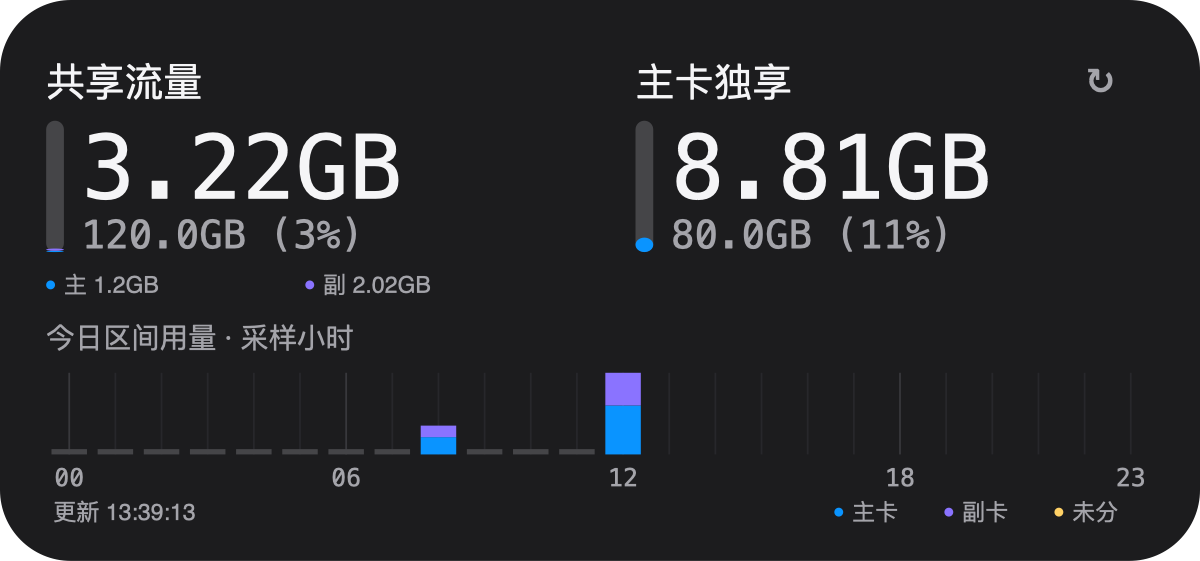
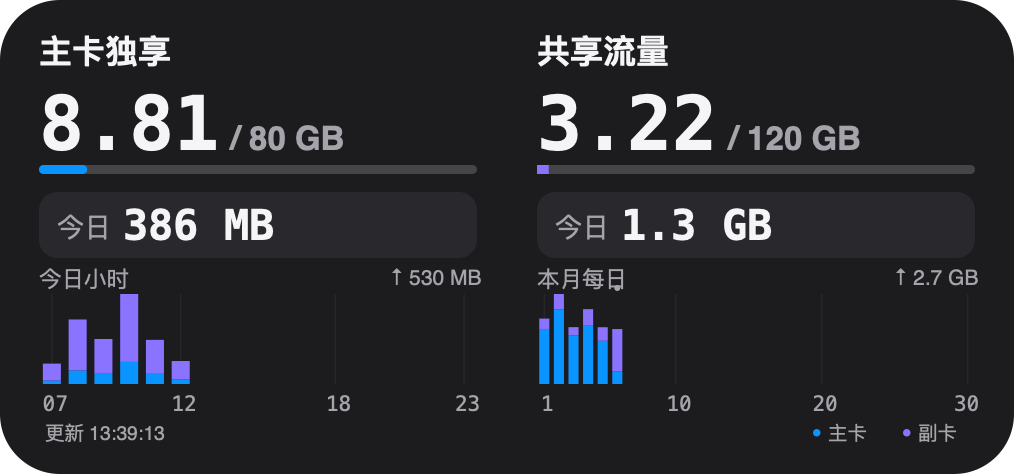
Improve Unicom medium widget with combined usage and compact charts

diff --git a/scriptable/UnicomFlow.js b/scriptable/UnicomFlow.js
@@ -7,11 +7,11 @@
 2. 联通官方 App 首页 → 流量，收到 Cookie 写入成功通知。
 3. 将 DmYY.js 放入同一 Scriptable 脚本目录，再新建脚本粘贴本文件。
 4. 运行后在 DmYY 菜单中预览、配置和刷新数据，再添加桌面组件。
-5. 小组件 Parameter 留空或 month 显示本月，填 today 显示今日已记录用量。
+5. Parameter 留空或 month：小号本月、中号本月+今日双图；today 显示今日已记录用量。
 直接读取 http://boxjs.net/query/data/@YaYa_10010.cookie。
 Cookie 只在请求时读取，不写入文件、不打印日志；文件只保存流量快照。
 支持黑色/白色主题。可识别共享与非共享通用套餐时分开显示，否则显示通用/定向。
-大数字为已用，下方为总量及已用百分比。明细未返回时显示 --。
+本月中号大数字为月已用，同排显示总量，下方显示今日；其余视图沿用原布局。明细未返回时显示 —。
 中号图为两次查询之间的用量增量，记在本次采样小时，不是运营商小时账单。
 iOS 决定实际刷新时刻；首次运行无历史，跨月、套餐变化或计数回退时重建基线。
 接口字段参考：联通套餐查询接口及 ChinaTelecomOperators/ChinaUnicom 公开实现；
@@ -40,7 +40,7 @@ const UF = {
   folder: 'UnicomFlow',
   usageFont: 'SF Mono Medium', totalFont: '系统 Medium',
   usageFontSize: 25, totalFontSize: 11, titleFontSize: null,
-  bg: '1C1C1E', text: 'F5F5F7', muted: 'A4A4AA', track: '454548',
+  bg: '1C1C1E', text: 'F5F5F7', muted: 'A4A4AA', track: '454548', todayBg: '28282D',
   blue: '0A94FF', purple: '8A73FF', warning: 'FFD166', gridMajor: '38383C', gridMinor: '27272B',
 };
 const UF_DEFAULTS = { ...UF };
@@ -72,8 +72,8 @@ function normalizedTitleSize(value) {
 }
 
 const UF_THEMES = {
-  黑色: { bg: '1C1C1E', text: 'F5F5F7', muted: 'A4A4AA', track: '454548', blue: '0A94FF', purple: '8A73FF', warning: 'FFD166', gridMajor: '38383C', gridMinor: '27272B' },
-  白色: { bg: 'FFFFFF', text: '1C1C1E', muted: '686870', track: 'E5E5EA', blue: '007AFF', purple: '7552D9', warning: '946200', gridMajor: 'D1D1D6', gridMinor: 'F0F0F3' },
+  黑色: { bg: '1C1C1E', text: 'F5F5F7', muted: 'A4A4AA', track: '454548', todayBg: '28282D', blue: '0A94FF', purple: '8A73FF', warning: 'FFD166', gridMajor: '38383C', gridMinor: '27272B' },
+  白色: { bg: 'FFFFFF', text: '1C1C1E', muted: '686870', track: 'E5E5EA', todayBg: 'F0F3F7', blue: '007AFF', purple: '7552D9', warning: '946200', gridMajor: 'D1D1D6', gridMinor: 'F0F0F3' },
 };
 
 function applyTheme(settings = {}) {
@@ -933,6 +933,42 @@ function todayBuckets(history, at) {
   return buckets;
 }
 
+// 仅压缩组件中的夜间横轴，不修改历史、统计页或其余小时归属。
+function widgetHourSlots(history, at) {
+  const report = hourlyReport(history, at);
+  const slots = report.days.map((day, index) => ({ ...day, samples: day.intervals, weight: 1,
+    label: [0, 6, 12, 18, 23].includes(index) ? String(index).padStart(2, '0') : '' }));
+  const start = new Date(new Date(at).getFullYear(), new Date(at).getMonth(), new Date(at).getDate()).getTime();
+  const end = new Date(start).setHours(6);
+  if (at < end) return slots;
+  const intervals = (history.events || []).filter(e => Number.isFinite(e.from) && Number.isFinite(e.at)
+    && e.from < e.at && e.at <= at && Number.isFinite(e.mb) && e.mb >= 0 && e.from < end && e.at > start)
+    .sort((a, b) => a.from - b.from);
+  let covered = start;
+  for (const e of intervals) {
+    if (e.from > covered) break;
+    covered = Math.max(covered, e.at);
+  }
+  // 边界区间不拆分；把整段用量计入阈值上界，宁可不折叠，也不漏掉跨边界的大用量。
+  if (covered < end || intervals.reduce((sum, e) => sum + e.mb, 0) >= 10) return slots;
+  // 正好06:00结束的区间属于夜间边界；仅在折叠视图中移入夜间柱，从06时柱扣除一次。
+  const boundary = intervals.filter(e => e.at === end && eventDate(e) === dayKey(at)
+    && new Date(e.assignedAt == null ? e.at : e.assignedAt).getHours() === 6);
+  const boundaryParts = usageSummary(boundary);
+  if (boundary.length) {
+    const six = slots[6];
+    for (const key of ['mb', 'mainMB', 'viceMB', 'unknownMB']) six[key] = Math.max(0, six[key] - boundaryParts[key]);
+    six.samples = six.intervals = Math.max(0, six.intervals - boundary.length);
+    if (!six.samples) for (const key of ['mb', 'mainMB', 'viceMB', 'unknownMB']) six[key] = null;
+  }
+  // 隐藏低用量夜间，不显示合并柱；白天从首个有用量小时起，后续小时连续保留。
+  // 尚无白天用量时保留06–23的位置；今日合计仍直接取原始历史，包含隐藏的夜间。
+  const active = slots.findIndex((d, index) => index >= 6 && !d.future && d.samples && d.mb > 0);
+  const first = active < 0 ? 6 : active;
+  return slots.slice(first).map((d, index) => ({ ...d,
+    label: index === 0 || [12, 18, 23].includes(index + first) ? String(index + first).padStart(2, '0') : '' }));
+}
+
 // ---- 手机端存储与请求 ----
 function storage() {
   const fm = FileManager.local();
@@ -1196,6 +1232,84 @@ function drawMetric(ctx, metric, label, x, y, width, compact, today = false, dai
   }
 }
 
+function drawCombinedMetric(ctx, metric, label, daily, x, width, detailRow) {
+  const title = ['通用', '定向'].includes(label) ? '数据流量·' + label : label;
+  const titleSize = Math.min(UF.titleFontSize || 11, width / Math.max(1, title.length));
+  text(ctx, title, x, 10, width, 15, titleSize, UF.text, false, false, true);
+  const used = metric ? metric.used / 1024 : null;
+  const primary = used == null ? '—' : used > 0 && used < 0.01 ? '<0.01' : used.toFixed(2);
+  const quota = metric ? metric.total == null ? ' / 不限量' : ` / ${formatGB(metric.total, true)} GB` : '';
+  const suffix = metric && metric.total == null ? ' GB' + quota : quota;
+  const quotaSize = UF.totalFontSize;
+  const primarySize = Math.min(UF.usageFontSize, (width - numberWidth(suffix, quotaSize, 'total') - 2)
+    / Math.max(1, numberWidth(primary, 1, 'usage')));
+  const valueWidth = numberWidth(primary, primarySize, 'usage');
+  text(ctx, primary, x, 25, valueWidth + 2, 29, primarySize, UF.text, 'number');
+  if (suffix) text(ctx, suffix, x + valueWidth + 2, 25 + primarySize - quotaSize,
+    width - valueWidth - 2, 17, quotaSize, UF.muted, 'total');
+  const trackY = 55, trackH = 3;
+  roundedRect(ctx, x, trackY, width, trackH, 1.5, UF.track);
+  const c = metric && metric.composition;
+  if (metric && metric.total > 0 && metric.used > 0) {
+    const scale = width / Math.max(metric.total, metric.used);
+    if (c && c.complete) {
+      // 整条代表套餐总量，主副卡按实际用量相邻堆叠，不放大短段。
+      if (c.main > 0) { ctx.setFillColor(new Color(UF.blue)); ctx.fillRect(new Rect(x, trackY, c.main * scale, trackH)); }
+      if (c.vice > 0) { ctx.setFillColor(new Color(UF.purple)); ctx.fillRect(new Rect(x + c.main * scale, trackY, c.vice * scale, trackH)); }
+    } else if (!c) roundedRect(ctx, x, trackY, metric.used * scale, trackH, 1.5, UF.blue);
+  }
+  if (c && !c.complete) text(ctx, '明细未确认', x, 61, width, 10, 7, UF.warning);
+  else if (c && c.main > 0) {
+    const half = width / 2;
+    for (const [index, name, value, color] of [[0, '主', c.main, UF.blue], [1, '副', c.vice, UF.purple]]) {
+      roundedRect(ctx, x + index * half, 64, 2.5, 2.5, 1.25, color);
+      text(ctx, `${name} ${formatMB(value).replace(/(MB|GB)$/, ' $1')}`, x + index * half + 5, 61,
+        half - 5, 11, Math.min(7.5, UF.totalFontSize), UF.muted);
+    }
+  }
+  const dailyY = detailRow ? 73 : 65;
+  roundedRect(ctx, x, dailyY - 1, width, 22, 6, UF.todayBg);
+  text(ctx, '今日', x + 6, dailyY + 5, 18, 13, 9, UF.muted);
+  const todayValue = formatMB(daily, 'daily').replace(/(MB|GB)$/, ' $1');
+  const size = Math.min(14, UF.usageFontSize, (width - 34) / Math.max(1, numberWidth(todayValue, 1, 'usage')));
+  text(ctx, todayValue, x + 28, dailyY + 1, width - 34, 20, size, UF.text, 'number');
+}
+
+function drawCompactChart(ctx, slots, title, x, y, width) {
+  const sampled = slots.filter(d => !d.future && d.samples && d.mb != null);
+  const peak = Math.max(0, ...sampled.map(d => d.mb)), max = Math.max(1, peak);
+  const peakLabel = sampled.length ? formatMB(peak, 'daily').replace(/(MB|GB)$/, ' $1') : '—';
+  text(ctx, title, x, y - 10, width * 0.55, 10, 7.5, UF.muted);
+  text(ctx, `↑ ${peakLabel}`, x + width * 0.55, y - 10, width * 0.45, 10, 7, UF.muted, false, 'right');
+  const unit = width / slots.reduce((n, d) => n + (d.weight || 1), 0), chartH = 128 - y;
+  let offset = 0;
+  slots.forEach(slot => {
+    const cell = unit * (slot.weight || 1), center = x + offset + cell / 2;
+    const barWidth = Math.max(1, Math.min(cell - 1.5, unit * 0.7));
+    if (slot.label) {
+      ctx.setFillColor(new Color(UF.gridMinor)); ctx.fillRect(new Rect(center - 0.25, y, 0.5, chartH));
+      const labelWidth = Math.min(width, Math.max(cell, slot.label.length * 4));
+      const labelX = Math.min(x + width - labelWidth, Math.max(x, center - labelWidth / 2));
+      text(ctx, slot.label, labelX, 130, labelWidth, 9, 7, UF.muted, true, true);
+    }
+    if (!slot.future && slot.samples && slot.mb != null) {
+      if (slot.mb > 0) {
+        const h = slot.mb / max * chartH;
+        let bottom = 128;
+        const parts = eventParts(slot);
+        for (const [key, color] of [['mainMB', UF.blue], ['viceMB', UF.purple], ['unknownMB', UF.warning]]) {
+          if (parts[key] <= 0) continue;
+          const segment = h * parts[key] / slot.mb;
+          bottom -= segment; ctx.setFillColor(new Color(color));
+          ctx.fillRect(new Rect(center - barWidth / 2, bottom, barWidth, segment));
+        }
+      } else { ctx.setFillColor(new Color(UF.track)); ctx.fillRect(new Rect(center - barWidth / 2, 127, barWidth, 1)); }
+    }
+    if (slot.current) roundedRect(ctx, center - 1, y - 3, 2, 2, 1, UF.muted);
+    offset += cell;
+  });
+}
+
 function renderImage(result, medium, width, height, mode = 'month') {
   // 统一为 158 点设计高度，再随组件尺寸缩放，避免小屏沿用固定坐标而挤入圆角。
   width = Math.round(width * 158 / height);
@@ -1212,11 +1326,23 @@ function renderImage(result, medium, width, height, mode = 'month') {
   // 共享逐卡月明细出现时保留安全间隔；其余布局利用留白向上增高，底边固定。
   const chartLift = !today && [metrics.left, metrics.right].some(metric => metric && metric.composition
     && !(metric.composition.complete && metric.composition.main === 0)) ? 0 : 6;
-  const daily = today ? [todayPackageUsage(result.history, metrics.leftIds, Date.now()), todayPackageUsage(result.history, metrics.rightIds, Date.now())] : [];
+  const combined = medium && !today;
+  const daily = today || combined ? [todayPackageUsage(result.history, metrics.leftIds, Date.now()), todayPackageUsage(result.history, metrics.rightIds, Date.now())] : [];
   const now = Date.now();
-  const buckets = !medium ? [] : today ? todayBuckets(result.history, now)
-    : monthlyReport(result.history, now).days.map(day => ({ mb: day.mb || 0, ...eventParts({ ...day, mb: day.mb || 0 }), samples: day.intervals }));
-  if (medium) {
+  const buckets = medium && today ? todayBuckets(result.history, now) : [];
+  if (combined) {
+    const col = (width - 2 * pad - 20) / 2, rightX = pad + col + 20;
+    const detailRow = [metrics.left, metrics.right].some(metric => metric && metric.composition
+      && (!metric.composition.complete || metric.composition.main > 0));
+    drawCombinedMetric(ctx, metrics.left, metrics.leftLabel, daily[0], pad, col, detailRow);
+    drawCombinedMetric(ctx, metrics.right, metrics.rightLabel, daily[1], rightX, col, detailRow);
+    const chartY = detailRow ? 106 : 98;
+    drawCompactChart(ctx, widgetHourSlots(result.history, now), '今日小时', pad, chartY, col);
+    const month = monthlyReport(result.history, now);
+    const days = month.days.map((d, index) => ({ ...d, samples: d.intervals, current: d.key === month.today,
+      label: [0, 9, 19, month.days.length - 1].includes(index) ? String(index + 1) : '' }));
+    drawCompactChart(ctx, days, '本月每日', rightX, chartY, col);
+  } else if (medium) {
     const col = (width - 2 * pad - 20) / 2;
     drawMetric(ctx, metrics.left, metrics.leftLabel, pad, 12, col, false, today, daily[0]);
     drawMetric(ctx, metrics.right, metrics.rightLabel, pad + col + 20, 12, col, false, today, daily[1]);
@@ -1269,7 +1395,7 @@ function renderImage(result, medium, width, height, mode = 'month') {
     : compactStatus ? `${time} · ${compactStatus}` : `${result.manualRefresh ? '已刷新' : '更新'} ${time}`;
   // 图例解释整张卡片，置于底部右侧；左侧预留更新时间及异常提示。
   const footerY = height - (medium ? 18 : 15);
-  const dailyHint = today && !status && !daily.some(value => value != null)
+  const dailyHint = (today || combined) && !status && !daily.some(value => value != null)
     ? (todayBuckets(result.history, now).some(b => b.samples) ? '今日分类未确认' : '今日待采样') : '';
   text(ctx, dailyHint ? `${dailyHint} · ${label}` : label, pad + 2, footerY,
     width - 2 * pad - 4 - (medium ? 62 : 0), 9, 6.5,

diff --git a/docs/unicom-flow/README.md b/docs/unicom-flow/README.md
@@ -15,9 +15,15 @@
 
 ## 小组件参数：本月／今日
 
-长按桌面组件 → 编辑小组件 → Parameter：留空或填写 `month` 保持月用量视图，填写 `today` 切换为今日视图。小号、中号均支持，每张组件独立选择，同一份历史和字体设置可以同时用于两种视图。组件不再提供独立刷新按钮，中号整卡点击固定打开本地用量统计，覆盖 Scriptable 原有点击行为；小号整卡点击固定只打开 Scriptable App，不运行本脚本。
+长按桌面组件 → 编辑小组件 → Parameter：留空或填写 `month` 时，小号显示本月，中号显示本月＋今日综合视图；填写 `today` 切换为原有今日视图。小号、中号均支持，每张组件独立选择，同一份历史和字体设置可以同时用于两种视图。组件不再提供独立刷新按钮，中号整卡点击固定打开本地用量统计，覆盖 Scriptable 原有点击行为；小号整卡点击固定只打开 Scriptable App，不运行本脚本。
 
-今日视图标题为“共享流量 · 今日”／“主卡独享 · 今日”（未识别共享属性时沿用通用／定向分类），大数字显示该组套餐的今日已记录增量；下方固定使用 GB，格式如 `6.8 / 120 GB`，斜杠两侧和数字与单位间各留固定 2 点间距，不加“本月”文字、不显示百分比。竖条仍表示月套餐已用比例。图表只保留主卡／副卡色点和名称，不重复用量数字；共享池下方不再额外显示逐卡月用量。月视图继续显示月套餐信息，图表改为本月每日分布；两种模式的图例统一为“主卡／副卡”，不显示用量数字。
+今日视图标题为“共享流量 · 今日”／“主卡独享 · 今日”（未识别共享属性时沿用通用／定向分类），大数字显示该组套餐的今日已记录增量；下方固定使用 GB，格式如 `6.8 / 120 GB`，斜杠两侧和数字与单位间各留固定 2 点间距，不加“本月”文字、不显示百分比。竖条仍表示月套餐已用比例。图表只保留主卡／副卡色点和名称，不重复用量数字；共享池下方不再额外显示逐卡月用量。今日中号继续显示一张完整宽度的小时图，两种模式的底部图例统一为“主卡／副卡”，不显示用量数字。
+
+本月中号采用综合布局，不新增参数：左主卡独享、右共享流量，未识别共享属性时回退通用／定向。每栏顶部只保留套餐标题，大数字显示月已用，与总量同排（如 `8.81 / 80 GB`）；综合中号不显示百分比，保留2—3点高的横向月进度条。下方用一条薄浅底突出次一级的“今日”合计，“今日”标签与数值紧邻排列，不再左右拉开；白色、黑色主题分别使用对应浅底。共享池主卡用量确认为0且成员合计完整时，不显示逐卡明细；主卡实际共享用量大于0时，在月进度条下显示一行本月主／副卡用量；成员缺失或合计不符时显示“明细未确认”，保留灰条，不猜测。共享月进度条以套餐总量为整条宽度，蓝色主卡、紫色副卡相邻堆叠，不夸大短段；今日不再重复逐卡数字。
+
+综合中号底部左侧为“今日小时”，右侧为“本月每日”，都统计全部套餐；蓝色主卡包含独享和共享，紫色副卡为其共享用量，未知归属使用提示色。两图分别缩放并显示峰值，直接置于卡片背景上，不增加图表底框或分隔线；更新时间固定左下角，图例在右下角。没有采样和未来位置留空，真实零值才画短标记。月图按实际月份保留28—31个逐日位置，只标1、10、20及月末，另标记今天的位置。
+
+仅综合中号的小时图会隐藏低用量夜间：00—06点已完整结束、有效采样区间连续覆盖全段，且包含跨边界区间在内的用量上界严格小于10 MB时，不画“00–06”合并柱或夜间数值；横轴从06点后首个有正用量的小时起显示，例如07，并连续保留至23点，中间的零值、缺采样和未来位置不删除。尚无白天正用量时保留06—23的位置。正好06:00结束的夜间区间不在06时重复绘制。隐藏的夜间仍计入今日总量；达到10 MB、06点前、区间有缺口或跨边界用量无法确认时保留完整00—23。仅改变综合中号显示，不修改历史、独立今日中号或统计页。
 
 日用量直接复用原有同日区间记录，不另存套餐增量或今日累计值，不清空旧历史。当前账户此前主卡未使用共享池，且只显示共享／独享两类套餐：当共享主卡累计值仍确认为零时，原副卡增量对应共享池，原主卡增量对应主卡独享；独享包一直明确计入主卡，因此旧记录中未知成员归属的增量仍可合并到共享池。若主卡开始使用共享池、有其他分类混入或当前成员归属不完整，旧记录无法精确拆分，显示 `—`，不按比例猜测。单一套餐分类可直接复用总增量，确认总增量为零时各套餐也为零。上一版冗余的 `packageDeltas` 字段在正常保存历史时移除，其余原记录保留；新增零区间不会覆盖已有今日用量。无有效记录显示 `—`，真实零增量显示 `0 MB`；底部正常显示更新时间，不再附加“今日已记录”；数据缺失时保留“今日待采样”或“今日分类未确认”，查询失败仍优先显示缓存状态。符合阈值的跨午夜小流量近似归入对应日期，其余跨午夜区间不拆分到今日，长时间未刷新可能漏记；不是运营商详单。
 
@@ -48,7 +54,7 @@
 
 独享流量优先：小号上方为主卡独享、下方为共享流量；中号左侧为主卡独享、右侧为共享流量。本月、今日两种模式顺序一致，通用／定向的回退顺序不变。
 
-“组件配置 → 字体与字号”分别设置**用量文字**和**总量与百分比**，两组可以选择不同字体；每组只有一个字体菜单，选项为系统 Regular、系统 Medium、SF Mono Regular、SF Mono Medium、Menlo Regular。Menlo 没有原生 Medium，不作伪造或替代；不可用时回退系统等宽 Regular。选择菜单沿用 DmYY 普通文字，不提供字体预览。小号、中号共用设置，默认用量 SF Mono Medium 25 号、总量系统 Medium 11 号；直接输入数字（支持小数），用量允许 12—28，总量允许 6—14，超宽文字自动缩小以适应卡片，不改变保存的字号。旧数字字体设置自动迁移到两组字体；上一版完整默认组合会一次性切换到新默认，已自定义的组合保留，不清除历史。用量行略上移、总量行略下移，为 Medium 25 号留出间距。用量数字和总量从竖条右侧同一位置起排，MB／GB 单位与用量数字使用相同字体、字重、字号，以 2 点窄间距分隔，避免等宽字体普通空格过宽；超宽时数字和单位同步缩小。总量的数字与单位也采用固定 2 点窄间距，单位与百分比括号之间不加空格，例如 `120 GB(6%)`。主副卡说明使用系统常规字体，标题使用系统中等字重，小时／日期刻度保留等宽字体。“标题文字”另提供独立字号输入，大小号共用，允许 8—12（支持小数）；留空恢复小号10、中号11，长标题自动缩小以适应宽度。大数字表示已用，下方表示套餐总量和已用百分比，大小卡片统一使用数字左侧的竖进度条，从底部向上增长。主卡独享等普通套餐的竖条表示已用比例；共享池的整条高度代表套餐总量，底部蓝色段表示主卡已用、其上紫色段表示副卡已用，剩余灰色表示未用流量。例如共享总量 120 GB、主卡已用 1.2 GB、副卡已用 2.02 GB 时，两段合计只占整条约 2.68%。下方标明两张卡各自的共享用量，蓝色为主卡、紫色为副卡；主卡共享用量确认为 0 且逐卡合计完整时，小号与中号都省略这组图例，数据缺失时仍保留提示；成员缺失或合计不符时保留灰条并提示，不推算缺失用量。左右留白按 158 点设计高度收窄为 13 点，小号顶部为 12 点；共享条的彩色段同样使用圆头，短段按实际高度绘制椭圆圆角，不夸大用量；大小卡片底部均显示精确到秒的最后一次成功查询时间，小号、中号均不显示刷新图标、不设置单独的刷新点击区域，中号整卡链接打开本地用量统计，保留圆角安全留白。缓存或未识别明细的提示仍保留在安全区域内。不同手机尺寸统一按设计高度缩放布局。整卡使用背景图填满组件，避免固定宽度内容图片产生边缘细线；小时标签、竖线、柱子共用每格中心点对齐。在“组件配置 → 组件主题”选择黑色或白色，默认黑色，不随系统自动变化。两种主题分别保存自定义颜色，切换后文字、刻度、背景和提示颜色一起变化；可在“颜色配置”中调整当前主题。原版本的颜色设置仅迁移到黑色主题，避免白色主题套用旧的黑底配置。不限量套餐不计算百分比；没有返回某一类明细时显示 `--`，不伪装成 0。
+“组件配置 → 字体与字号”分别设置**用量文字**和**总量与百分比**，两组可以选择不同字体；每组只有一个字体菜单，选项为系统 Regular、系统 Medium、SF Mono Regular、SF Mono Medium、Menlo Regular。Menlo 没有原生 Medium，不作伪造或替代；不可用时回退系统等宽 Regular。选择菜单沿用 DmYY 普通文字，不提供字体预览。小号、中号共用设置，默认用量 SF Mono Medium 25 号、总量系统 Medium 11 号；直接输入数字（支持小数），用量允许 12—28，总量允许 6—14，超宽文字自动缩小以适应卡片，不改变保存的字号。旧数字字体设置自动迁移到两组字体；上一版完整默认组合会一次性切换到新默认，已自定义的组合保留，不清除历史。用量行略上移、总量行略下移，为 Medium 25 号留出间距。用量数字和总量从竖条右侧同一位置起排，MB／GB 单位与用量数字使用相同字体、字重、字号，以 2 点窄间距分隔，避免等宽字体普通空格过宽；超宽时数字和单位同步缩小。总量的数字与单位也采用固定 2 点窄间距，单位与百分比括号之间不加空格，例如 `120 GB(6%)`。主副卡说明使用系统常规字体，标题使用系统中等字重，小时／日期刻度保留等宽字体。“标题文字”另提供独立字号输入，大小号共用，允许 8—12（支持小数）；留空恢复小号10、中号11，长标题自动缩小以适应宽度。大数字表示已用，下方表示套餐总量和已用百分比，小号与独立今日中号继续使用数字左侧的竖进度条，从底部向上增长；本月综合中号使用上述横向分段进度条。主卡独享等普通套餐的竖条表示已用比例；共享池的整条高度代表套餐总量，底部蓝色段表示主卡已用、其上紫色段表示副卡已用，剩余灰色表示未用流量。例如共享总量 120 GB、主卡已用 1.2 GB、副卡已用 2.02 GB 时，两段合计只占整条约 2.68%。下方标明两张卡各自的共享用量，蓝色为主卡、紫色为副卡；主卡共享用量确认为 0 且逐卡合计完整时，小号与中号都省略这组图例，数据缺失时仍保留提示；成员缺失或合计不符时保留灰条并提示，不推算缺失用量。左右留白按 158 点设计高度收窄为 13 点，小号顶部为 12 点；共享条的彩色段同样使用圆头，短段按实际高度绘制椭圆圆角，不夸大用量；大小卡片底部均显示精确到秒的最后一次成功查询时间，小号、中号均不显示刷新图标、不设置单独的刷新点击区域，中号整卡链接打开本地用量统计，保留圆角安全留白。缓存或未识别明细的提示仍保留在安全区域内。不同手机尺寸统一按设计高度缩放布局。整卡使用背景图填满组件，避免固定宽度内容图片产生边缘细线；小时标签、竖线、柱子共用每格中心点对齐。在“组件配置 → 组件主题”选择黑色或白色，默认黑色，不随系统自动变化。两种主题分别保存自定义颜色，切换后文字、刻度、背景和提示颜色一起变化；可在“颜色配置”中调整当前主题。原版本的颜色设置仅迁移到黑色主题，避免白色主题套用旧的黑底配置。不限量套餐不计算百分比；没有返回某一类明细时显示 `--`，不伪装成 0。
 
 脚本调用联通的套餐明细接口 `queryOcsPackageFlowLeftContentRevisedInJune`。其明细中的 `total/use/remain` 默认以 MB 计，明确带单位的数值按单位换算；不从首页汇总值推算通用／定向数据。
 
@@ -118,7 +124,7 @@
 
 数值精度：小组件 GB 用量保留一位，今日视图下方统一 GB 时不足 1 GB 保留两位。MB 用量大于等于10时保留整数，0.1至不足10时保留一位（舍入到10时显示10），非零且不足0.1时显示 `<0.1 MB`；真实零显示 `0 MB`，不换算 KB。月用量与今日用量采用相同 MB 规则。套餐总量默认一位，小数尾零去除（如 `120GB`、`80.5GB`）。统计网页非零用量统一两位，非零但不足 0.01 个显示单位时显示 `<0.01`，无数据为 `—`，确认零用量为 `0MB`（网页单位前留空格），百分比仍为整数。只改变显示，不改变统计精度或历史数据。
 
-中号图表随参数切换：`today` 显示今天 00—23 时的小时分布，标题“小时用量”；留空或 `month` 显示本月每日用量，标题“每日用量”，按当月实际天数绘制，日期刻度为 1、5、10、15、20、25 及月末日。月图直接读取已有每日用量记录，小时明细超过七天后月图仍能显示，不新增存储；无法拆分到某一天的跨午夜区间不塞入每日柱子，因此柱子合计可能低于月度统计合计。整卡图例统一移至中号卡片底部右侧，与更新时间同一行横排“蓝点＋主卡、紫点＋副卡”，同时解释套餐进度条和用量图，不再附加用量数字。小时／每日柱均保留主副卡堆叠颜色，未知归属仍用黄色表示，其详细数值在统计网页查看。图表底部保留更新时间，小号不增加图表。利用上方留白将柱图区高度由29增至35个设计点（约21%），标题、图例同步上移6点，柱子底边、刻度和更新时间不变；月模式出现共享逐卡明细时保留原间距，避免与文字重叠。
+中号图表随参数切换：`today` 显示今天 00—23 时的小时分布，标题“小时用量”；留空或 `month` 使用上述综合中号双图，其中月图标题“本月每日”，按当月实际天数绘制，日期刻度为1、10、20及月末日。月图直接读取已有每日用量记录，小时明细超过七天后月图仍能显示，不新增存储；无法拆分到某一天的跨午夜区间不塞入每日柱子，因此柱子合计可能低于月度统计合计。整卡图例统一移至中号卡片底部右侧，与更新时间同一行横排“蓝点＋主卡、紫点＋副卡”，同时解释套餐进度条和用量图，不再附加用量数字。小时／每日柱均保留主副卡堆叠颜色，未知归属仍用黄色表示，其详细数值在统计网页查看。图表底部保留更新时间，小号不增加图表。利用上方留白将柱图区高度由29增至35个设计点（约21%），标题、图例同步上移6点，柱子底边、刻度和更新时间不变；综合中号采用独立的双图间距；显示共享逐卡明细时同步下移今日条和图表，避免与文字重叠。
 
 - 首次运行显示“正在积累数据”，没有虚构历史。
 - 有增量的小时用蓝色主卡、紫色副卡堆叠显示，黄色表示归属未确认；成功采样且增量为零显示紫色短柱；过去且无样本的小时显示灰色短柱占位，未来小时留空。占位不计入统计。
@@ -204,6 +210,12 @@
 
 ![中号黑色主题](preview-medium.png)
 
+![综合中号白色主题：主卡尚未使用共享池，低用量夜间隐藏](preview-medium-light.png)
+
+![综合中号白色主题：独享耗尽后主副卡同时使用共享池](preview-medium-shared-light.png)
+
+后一示例的旧逐卡历史不能精确拆分今日套餐用量，因此“今日”显示 `—`，保留共享月明细及整体趋势；不会把主卡共享用量误计为独享。
+
 本地验证：`node tests/unicom-flow.test.cjs`。预览采用模拟用量，并非实时账户数据。覆盖共享构成（零用量、缺失、冲突与合计不符）、无版本号直接同步，以及主副卡归属、脱敏、缺失和重复冲突、选卡查看、真实抓包结构（`shareData` 镜像去重、`numberFlag`/`viceCardflag` 角色）、请求体与接口主机、刻度居中和整卡背景，以及黑白主题、共享／非共享拆分、自动及手动分组、套餐字段、单位、去重、分类、缺失数据、跨日跨月、计数回退、会话隔离、乱序采样、原生绘图指令、首次运行与缓存降级，以及 Cookie 不落盘、DmYY 菜单注册与尺寸预览分支、配置页不发起账号请求。常规测试使用模拟数据，新增语音／短信成员不混入流量的回归用例。另在本机读取用户 HAR 进行离线解析核验，不保存原始响应到仓库；这不等于已验证实时查询或 iOS 原生显示。
 
 参考：[Scriptable 官方 API](https://docs.scriptable.app/)、[BoxJS 官方文档](https://docs.boxjs.app/)、[联通余量公开项目](https://github.com/ChinaTelecomOperators/ChinaUnicom)。流量查询与绘图独立实现，菜单使用 dompling 的 DmYY 依赖；既有 Cookie 获取规则也来自 dompling，不新增抓取规则。
@@ -220,7 +232,7 @@
 
 刷新记录页“清除记录”通过原生确认仅清除刷新时间和间隔，完成后原页立即显示清空状态，不查询联通。数据存储页将“清除最新套餐快照”“清除全部历史”独立放在底部“谨慎清理”分块，以橙色文档和红色警告图标区分，仍需逐项确认。
 
-小组件的 MB 显示：大于等于10 MB四舍五入为整数；0.1至不足10 MB保留一位小数（舍入到10时显示10）；非零且不足0.1 MB显示 `<0.1 MB`，零显示 `0 MB`。适用于当月和今日组件，原始数据不变。统计网页仍保留两位小数；MB／GB换算仍沿用1024，未更改接口数据口径。
+小组件的 MB 显示：大于等于10 MB四舍五入为整数；0.1至不足10 MB保留一位小数（舍入到10时显示10）；非零且不足0.1 MB显示 `<0.1 MB`，零显示 `0 MB`。适用于小号、独立今日视图及综合中号的今日行，原始数据不变；综合中号顶部月用量固定使用GB并保留两位小数，非零不足0.01 GB显示 `<0.01`，总量省略无意义的小数零。统计网页仍保留两位小数；MB／GB换算仍沿用1024，未更改接口数据口径。
 
 用量统计的“明细记录”默认折叠，点击标题展开或收起；展开后仍可左右滑动表格。单日、单月和月度趋势共用此折叠区域，切换周期不强制重置展开状态。
 
